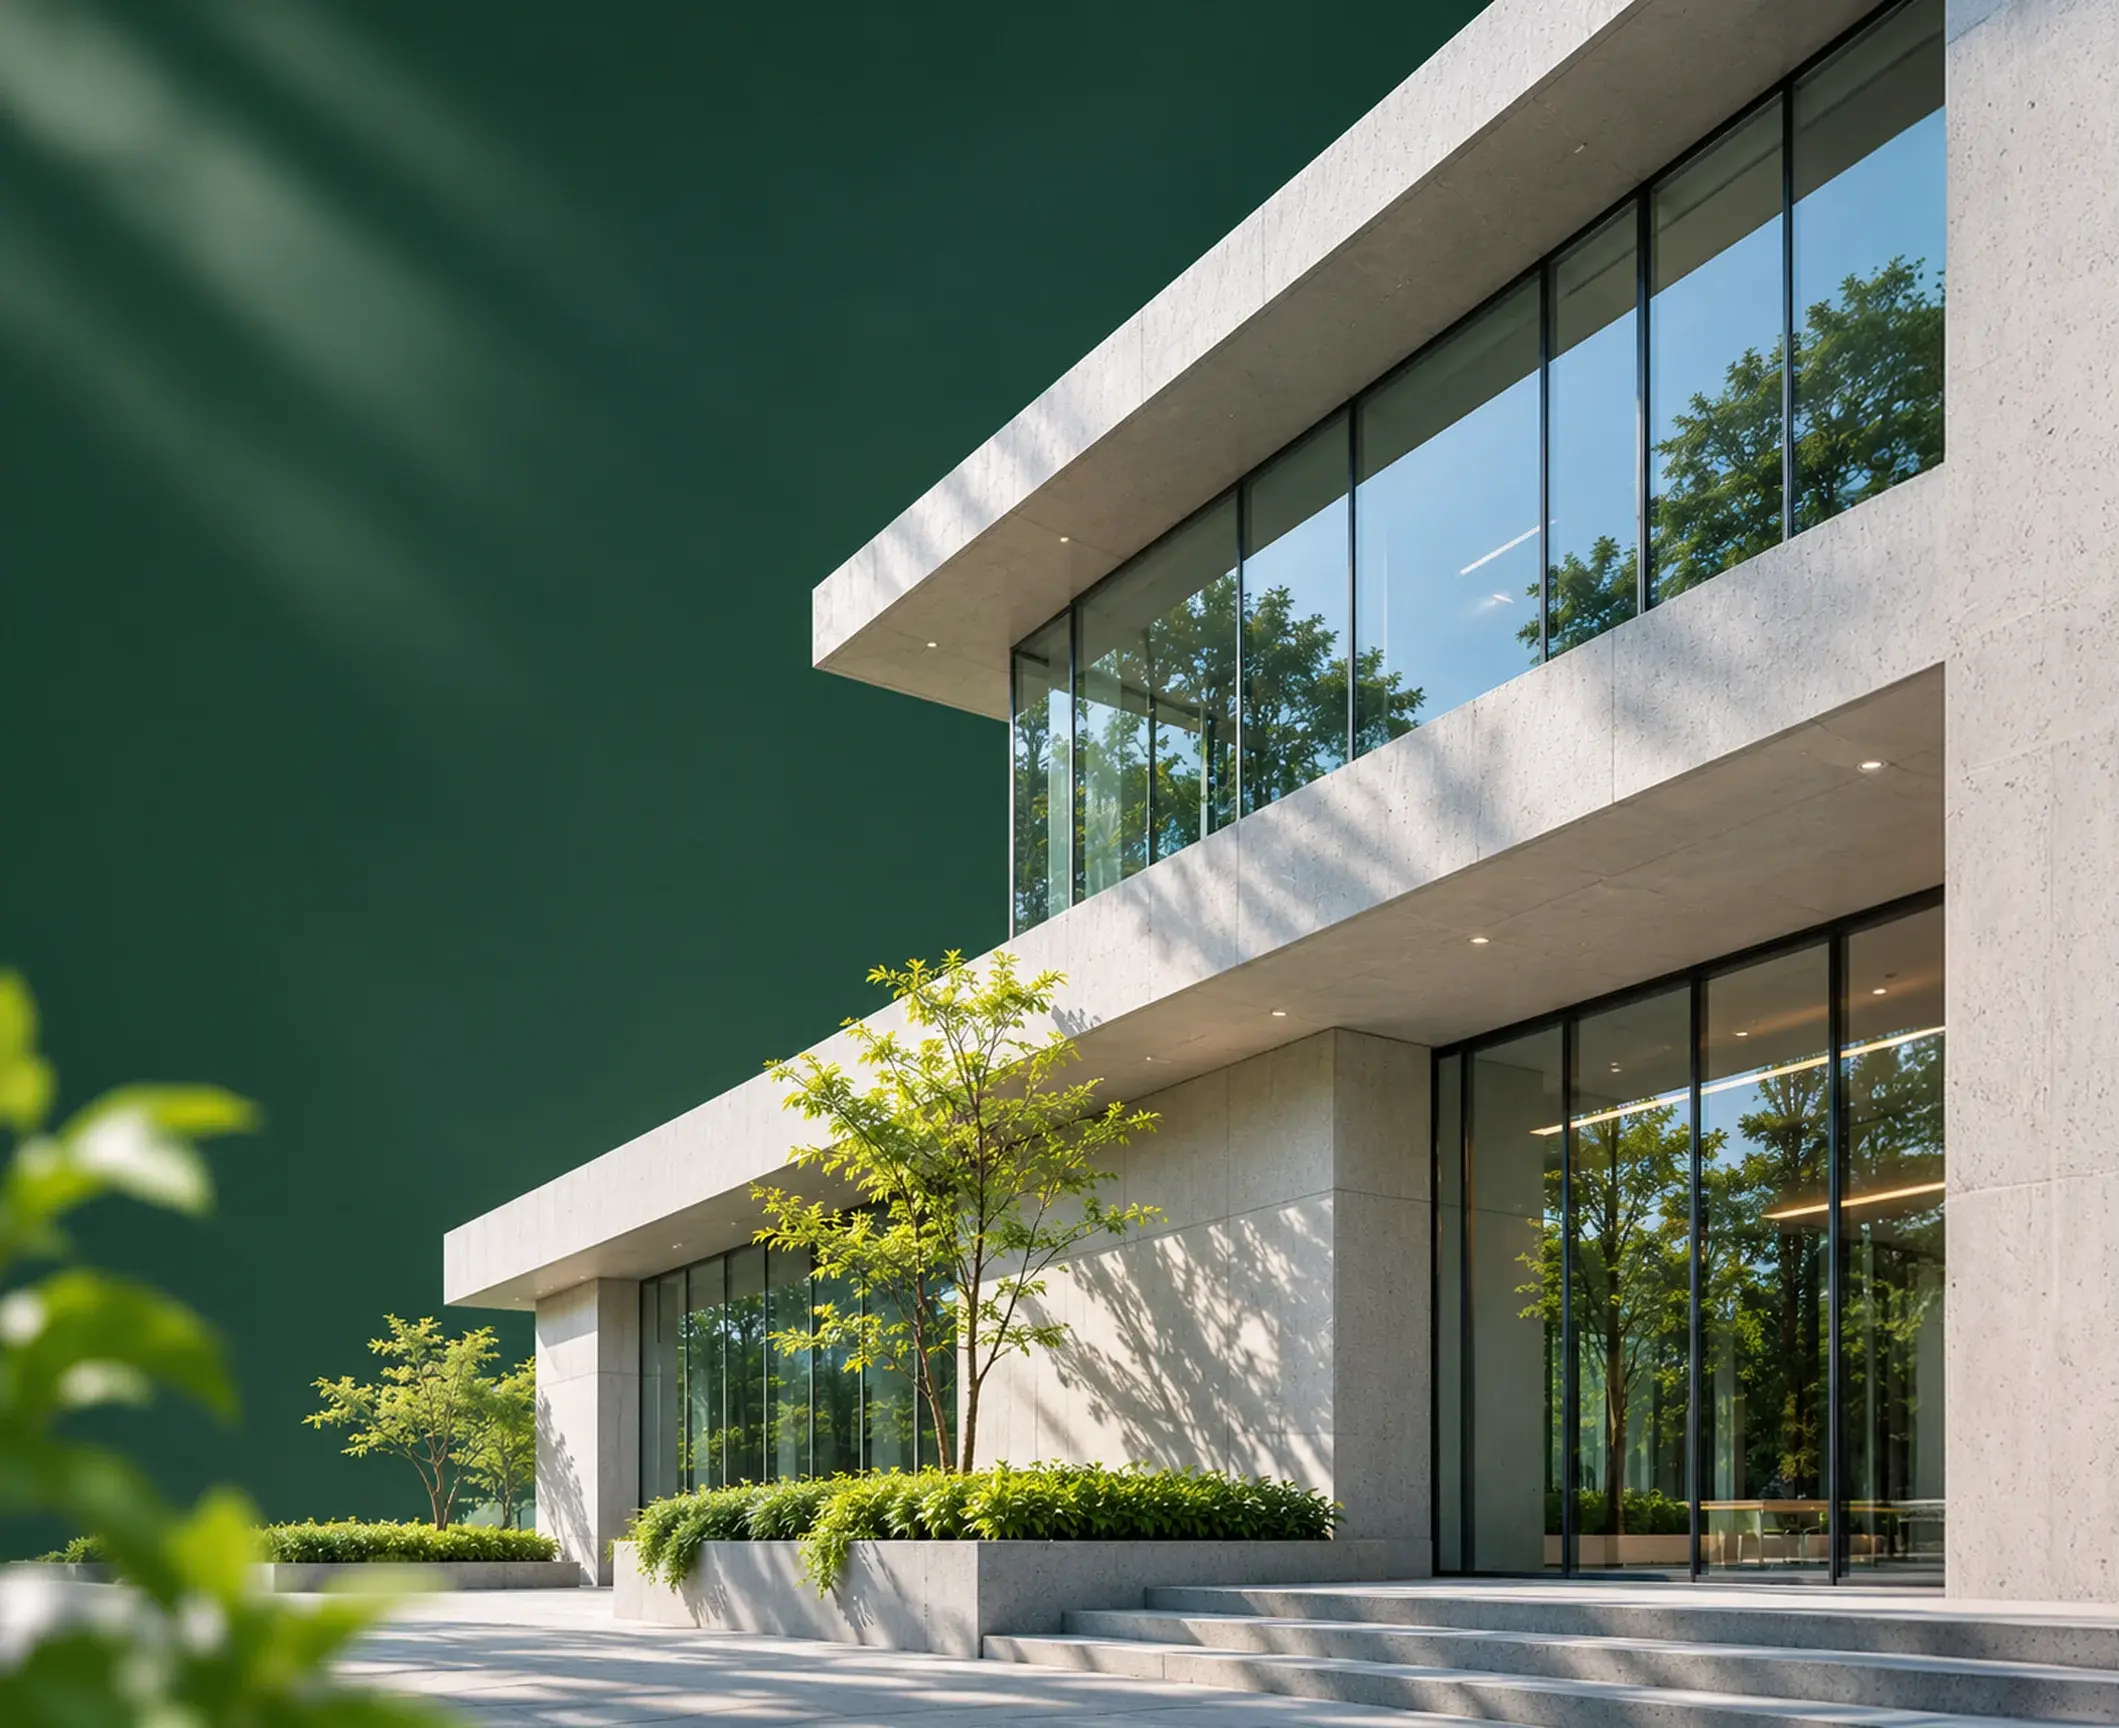
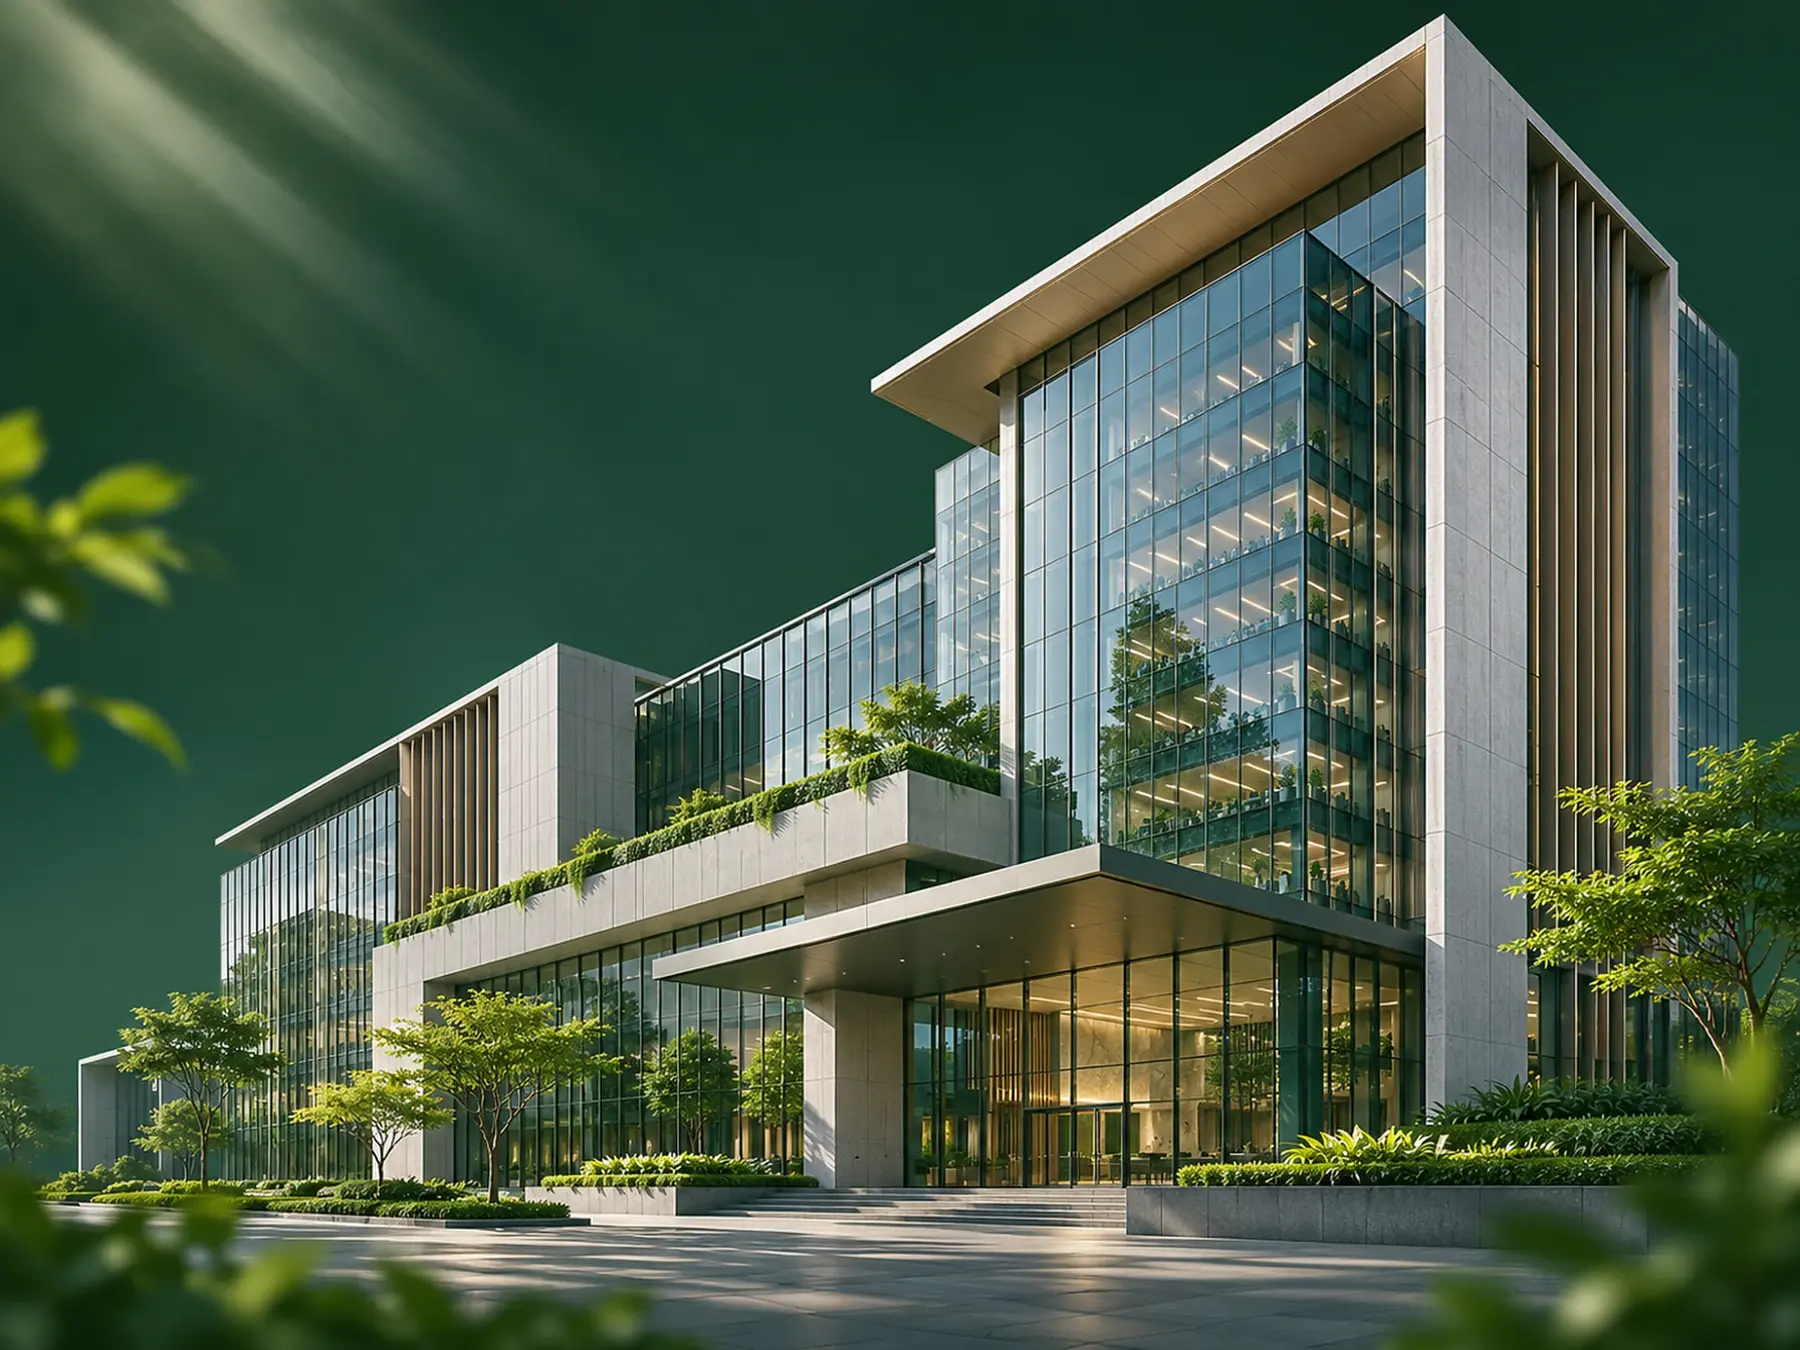
feat(website): thay ảnh hero slide 1 trang chủ bằng ảnh toà nhà mới
Claude-Session: https://claude.ai/code/session_01AfcPLUfVhLGYYepPwoL1Bo

diff --git a/website/index.html b/website/index.html
@@ -33,7 +33,7 @@
           </div>
           <div class="hero__media-wrap">
             <div class="hero__media">
-              <img class="cover" data-slide-img="0" src="/assets/images/hero/hero-office-tower.webp" width="2119" height="1728" alt="Toà nhà văn phòng kính hiện đại" style="object-position: 100% 50%">
+              <img class="cover" data-slide-img="0" src="/assets/images/hero/hero-office-tower.webp" width="1800" height="1350" alt="Toà nhà văn phòng kính hiện đại, nhiều cây xanh" style="object-position: 62% 50%">
               <img class="cover" data-slide-img="1" src="/assets/images/hero/hero-d8-bucket.webp" width="1920" height="1728" alt="Thùng keo chống nứt D8 Filler" hidden>
               <img class="cover" data-slide-img="2" src="/assets/images/hero/hero-vasa-bag.webp" width="1920" height="1728" alt="Bao vữa hiệu ứng Vasa" hidden>
               <div class="hero__controls">

diff --git a/CLAUDE.md b/CLAUDE.md
@@ -86,6 +86,7 @@ Build website **cBay** mới, **nhiều trang con (tổng cộng 9 trang)** từ
 - **Form "Liên hệ ngay" đổi nội dung** (yêu cầu user, theo 2 ảnh mẫu): các trường mới = Tên · Số điện thoại · Khu vực/Địa chỉ · Nhu cầu sử dụng (dropdown "Chọn nhu cầu sử dụng": Dùng cho công trình / Dùng cho nhà ở). Bỏ "Công việc/Dự án" và "Quy mô dự án". Dropdown tự vẽ (`src/scripts/modules/select.js`, dùng được bàn phím, Esc chỉ đóng danh sách); trường "Nhu cầu" KHÔNG bắt buộc (chỉ Tên + SĐT bắt buộc) — CHỜ user xác nhận. Form DÙNG THỬ vẫn giữ nguyên (còn "Công việc/Dự án"). Payload gửi đi: `need` thay cho `scale`/`job`.
 - **Tiêu đề dự án bớt lặp** (yêu cầu user): Trang chủ "Các công trình tiêu biểu" → "Dự án tiêu biểu", câu mô tả bỏ chữ "tiêu biểu" ("Một số dự án đã tin dùng…"), link "Xem tất cả dự án"; trang VASA eyebrow "Dự án nổi bật" → "Đối tác". Các trang khác (Khách hàng, Blog, D8, Về chúng tôi) giữ nguyên — CHỜ user xác nhận vị trí đã đúng ý chưa.
 - **Chữ "Bộ Xây Dựng"** luôn liền nhau (dùng khoảng trắng không ngắt `&nbsp;`) để không bị rớt "Bộ" xuống cuối dòng — áp dụng ở Trang chủ + D8.
+- **Hero Trang chủ, slide 1** (yêu cầu user): ảnh toà nhà văn phòng thay bằng ảnh user gửi (toà nhà kính nhiều cây xanh, nền xanh lá, 1800×1350, `public/assets/images/hero/hero-office-tower.webp`); căn ảnh `object-position: 62% 50%` để toà nhà luôn nằm trong khung ở mọi cỡ màn.
 - Header: nhóm "Sản phẩm – Giải pháp" không tô nền ở trang sản phẩm (Figma không tô), nút trang hiện tại khác (Blog…) tô nền ink/100.
 - Header: nút trang hiện tại có nền `ink/100` (theo Figma "Blog" ở trang Blog) → thêm style cho mọi trang.
 - Tên menu: Figma footer "Vữa hiệu ứng / Giải pháp chống thấm", code "Vữa trắng phong cách / Keo dán gạch chống thấm" → dùng Figma ở footer, code ở dropdown.
